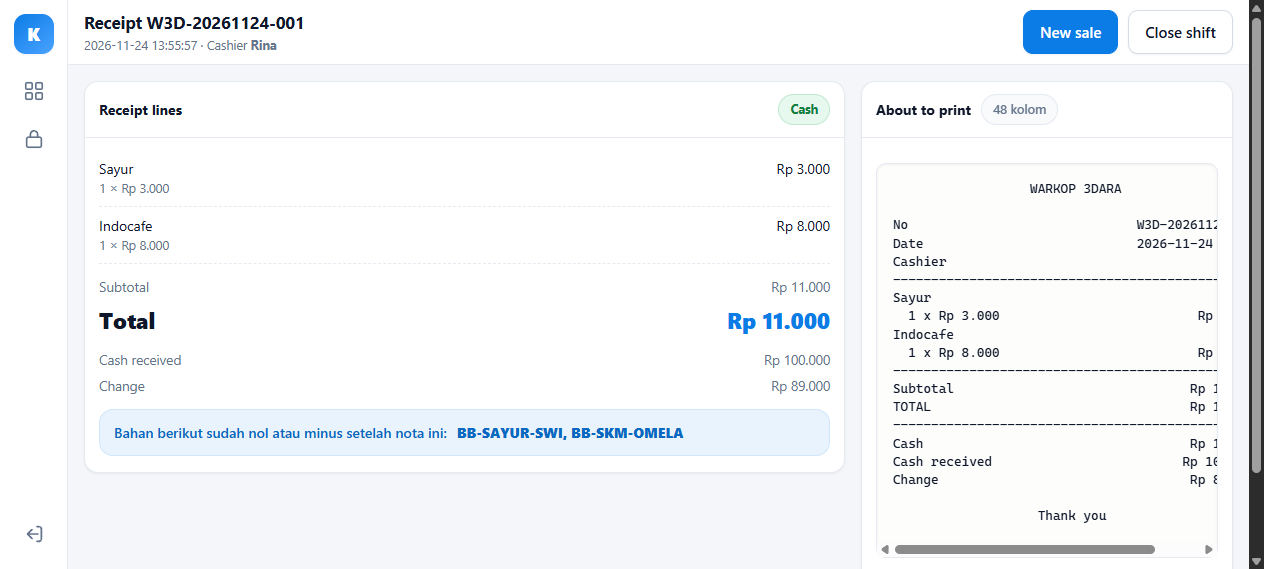
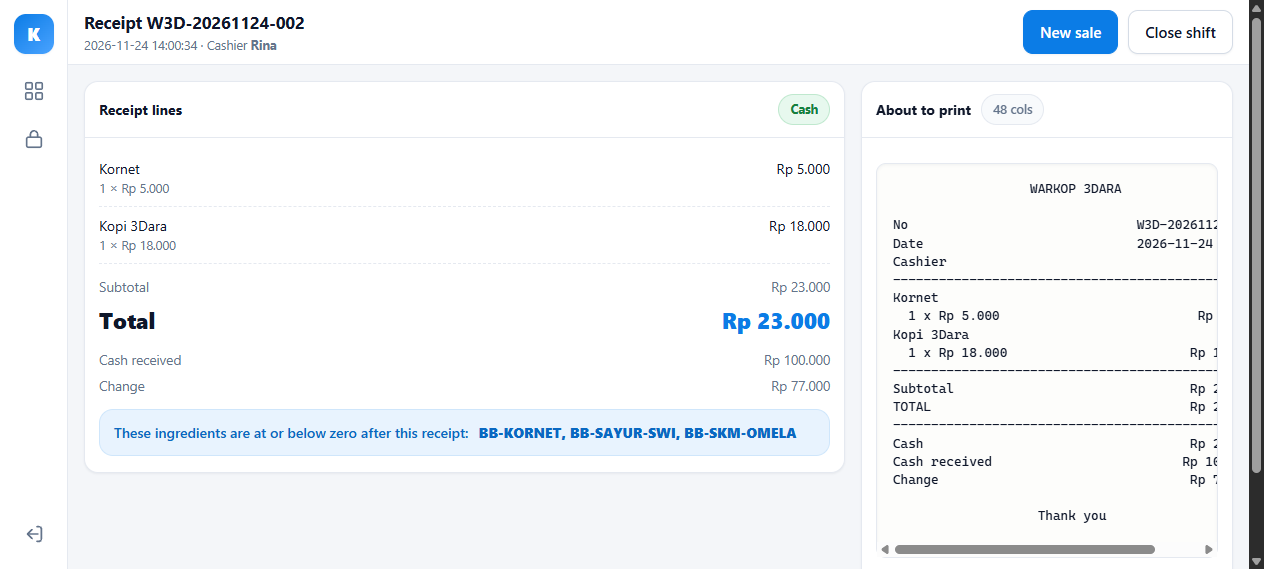
fix(i18n): five strings the first sweep missed, and a check that finds them
The badge on a sold-out tile, the 'no price set' label, the two payment-method hints, the
column count on the receipt page and the shift-closing explanation were still typed into
templates. They only showed up because a screenshot was read back line by line — the earlier
grep looked at text nodes that close on their own line, so anything inside an if-block slipped
past.

The scan is now line-based: strip the expressions from a template line and flag any Indonesian
word left in it. It reports nothing.

Still data, not translation: the shop name, item names, ingredient codes and 'Rp' stay as the
shop wrote them, which is the point.

diff --git a/templates/receipt.html b/templates/receipt.html
@@ -58,7 +58,7 @@
           {% endif %}
           {% if low_stock.len() > 0 %}
           <div class="alert info" style="margin:14px 0 0">
-            Bahan berikut sudah nol atau minus setelah nota ini: <b>{{ low_stock.join(", ") }}</b>
+            {{ t.low_stock_after }} <b>{{ low_stock.join(", ") }}</b>
           </div>
           {% endif %}
         </div>
@@ -67,12 +67,11 @@
       <aside class="panel">
         <div class="panel-head">
           <span class="panel-title">{{ t.about_to_print }}</span>
-          <span class="pill">{{ paper_cols }} kolom</span>
+          <span class="pill">{{ paper_cols }} {{ t.cols }}</span>
         </div>
         <div style="padding:12px 14px 16px">
           <pre class="paper">{{ paper_preview }}</pre>
-          <p class="hint">Cetak ke printer thermal belum aktif di langkah ini — teks di atas sudah
-            layout final struk {{ paper_cols }} kolom.</p>
+          <p class="hint">{{ t.print_not_wired }} {{ paper_cols }} {{ t.cols }}.</p>
         </div>
       </aside>
     </div>

diff --git a/templates/partials/items.html b/templates/partials/items.html
@@ -5,9 +5,9 @@
           title="{{ item.code }}">
     <span class="item-name">{{ item.name }}</span>
     <span class="item-foot">
-      <span class="item-price{% if item.no_price %} unset{% endif %}">{% if item.no_price %}harga belum diisi{% else %}{{ item.price_display }}{% endif %}</span>
+      <span class="item-price{% if item.no_price %} unset{% endif %}">{% if item.no_price %}{{ t.price_missing }}{% else %}{{ item.price_display }}{% endif %}</span>
       {% if item.has_availability %}
-      <span class="badge-stock {{ item.stock_class }}">{% if item.sold_out %}Habis{% else %}{{ item.availability }}{% endif %}</span>
+      <span class="badge-stock {{ item.stock_class }}">{% if item.sold_out %}{{ t.sold_out }}{% else %}{{ item.availability }}{% endif %}</span>
       {% endif %}
     </span>
   </button>

diff --git a/templates/pay.html b/templates/pay.html
@@ -52,7 +52,7 @@
                 <input type="radio" name="method" value="{{ m.name }}" {% if m.checked %}checked{% endif %}>
                 <span>
                   <span class="name">{{ m.name }}</span><br>
-                  <span class="kind">{% if m.is_cash %}uang tunai di laci{% else %}cek mutasi setelahnya{% endif %}</span>
+                  <span class="kind">{% if m.is_cash %}{{ t.cash_goes_to_drawer }}{% else %}{{ t.check_transfer }}{% endif %}</span>
                 </span>
               </label>
               {% endfor %}

diff --git a/templates/shift_closed.html b/templates/shift_closed.html
@@ -20,7 +20,7 @@
         {% endfor %}
       </table>
       <p class="hint" style="margin-top:12px">
-        Selisih 0 = uang fisik cocok dengan catatan. Selisih minus = uang di laci kurang dari catatan.
+        {{ t.difference_explained }}
       </p>
     </div>
     <div class="card-foot">

diff --git a/src/i18n.rs b/src/i18n.rs
@@ -122,6 +122,15 @@ catalog! {
     printer_none:          "Belum ada printer dikonfigurasi" | "No printer configured yet",
     low_stock_fix:         "Koreksi lewat opname sebelum jualan ramai." | "Put it right with a stock count before the rush.",
     units:                 "item" | "items",
+    cols:                  "kolom" | "cols",
+    price_missing:         "harga belum diisi" | "no price set",
+    sold_out:              "Habis" | "Out",
+    cash_goes_to_drawer:   "uang tunai di laci" | "cash into the drawer",
+    check_transfer:        "cek mutasi setelahnya" | "check the transfer afterwards",
+    difference_explained:  "Selisih 0 = uang fisik cocok dengan catatan. Selisih minus = uang di laci kurang dari catatan."
+                         | "A difference of 0 means the cash matches the record. A negative difference means the drawer is short.",
+    low_stock_after:       "Bahan berikut sudah nol atau minus setelah nota ini:" | "These ingredients are at or below zero after this receipt:",
+    print_not_wired:       "Cetak ke printer thermal belum aktif di langkah ini — teks di atas sudah layout final struk" | "Printing to the thermal printer is not wired up at this step — the text above is the final layout for a",
     hours_short:           "j" | "h",
 
     // ---- things the cashier is told to do differently ----------------------------
